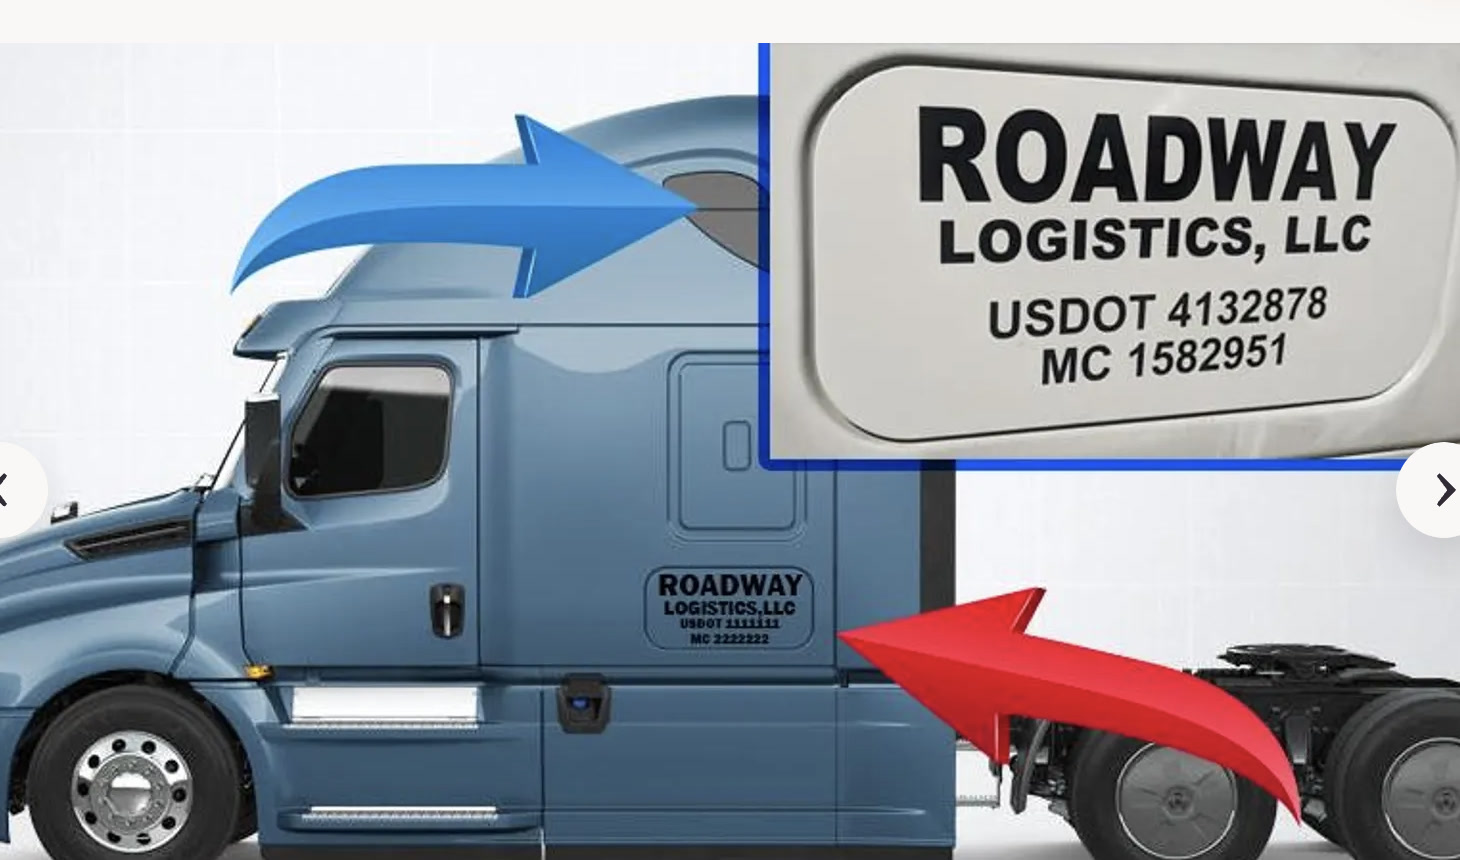
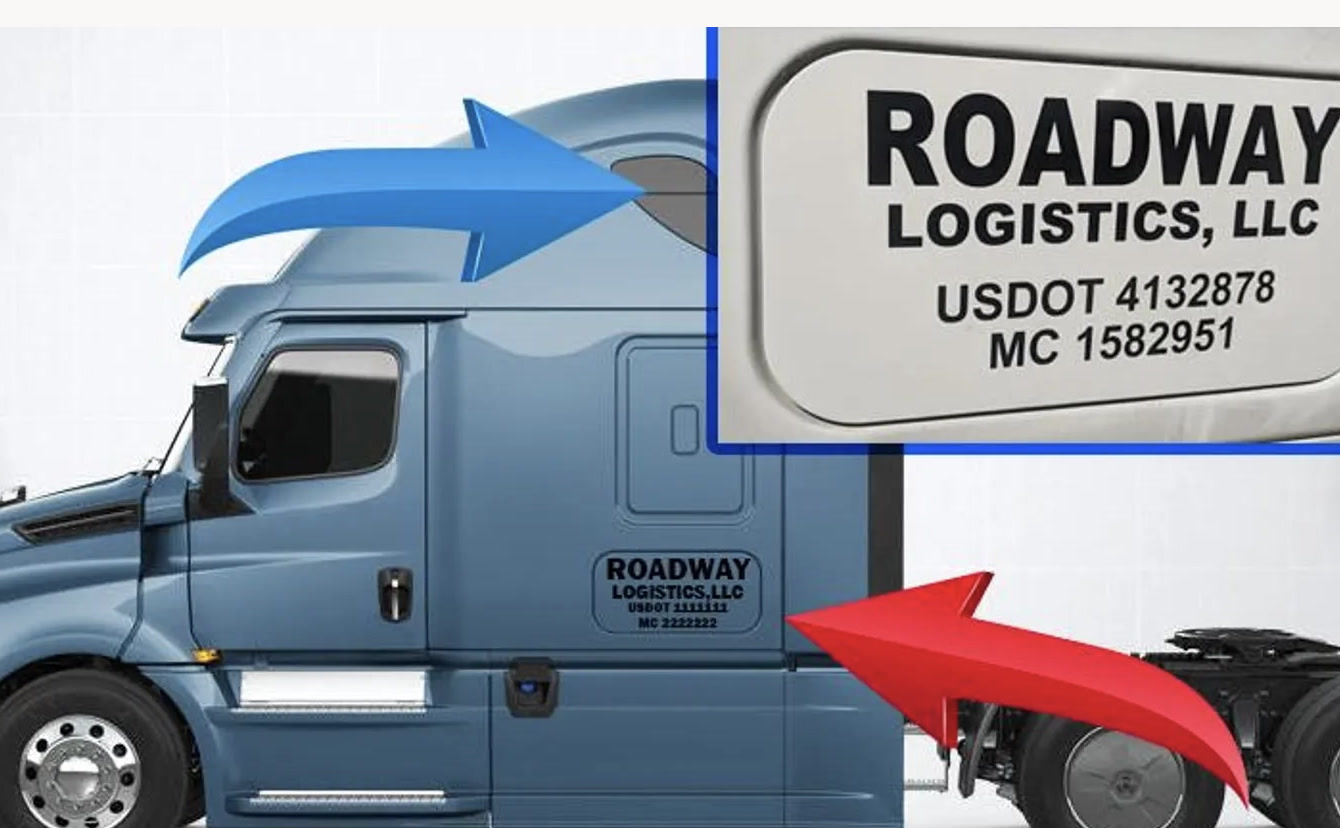
Clean carousel arrows and make the door lettering clickable.
Crop the left/right photo arrows out of the Cascadia template. Click the door or zoom inset to open a larger picture, with all lettering kept inside the rounded square.

diff --git a/src/components/white-semi-truck.tsx b/src/components/white-semi-truck.tsx
@@ -1,13 +1,21 @@
+"use client";
+
+import { useState } from "react";
 import { defaultStyle, type SignPalette } from "@/lib/sign-style";
 import type { SignFields } from "@/lib/order";
 import { cn } from "@/lib/utils";
+import {
+  Dialog,
+  DialogContent,
+  DialogDescription,
+  DialogTitle,
+} from "@/components/ui/dialog";
 
-/** Cropped Roadway-style Cascadia template. */
-const SRC = { w: 1460, h: 860 };
+/** Cropped Roadway-style Cascadia template (carousel arrows removed). */
+const SRC = { w: 1340, h: 828 };
 
-/** Covers the zoomed lettering inset in the template. */
-const INSET = { left: 48.8, top: 0, width: 51.2, height: 56.5 };
-const DOOR = { left: 43.5, top: 63.2, width: 12.2, height: 13.4 };
+const INSET = { left: 46.8, top: 0, width: 53.2, height: 55.8 };
+const DOOR = { left: 43.5, top: 63.7, width: 13.3, height: 13.9 };
 
 export function WhiteSemiTruck({
   fields,
@@ -16,50 +24,79 @@ export function WhiteSemiTruck({
   fields: SignFields;
   className?: string;
 }) {
+  const [open, setOpen] = useState(false);
+
   return (
-    <div
-      className={cn(
-        "overflow-hidden rounded-xl bg-[#eceff2] ring-1 ring-black/10",
-        className,
-      )}
-    >
+    <>
       <div
-        className="relative overflow-hidden"
-        style={{ aspectRatio: `${SRC.w} / ${SRC.h}` }}
+        className={cn(
+          "overflow-hidden rounded-xl bg-[#eceff2] ring-1 ring-black/10",
+          className,
+        )}
       >
-        {/* eslint-disable-next-line @next/next/no-img-element */}
-        <img
-          src="/cascadia-template.jpg"
-          alt="Cascadia sleeper door with USDOT vinyl"
-          className="absolute inset-0 h-full w-full object-cover"
-        />
         <div
-          className="absolute z-10"
-          style={{
-            left: `${DOOR.left}%`,
-            top: `${DOOR.top}%`,
-            width: `${DOOR.width}%`,
-            height: `${DOOR.height}%`,
-          }}
+          className="relative overflow-hidden"
+          style={{ aspectRatio: `${SRC.w} / ${SRC.h}` }}
         >
-          <DoorDecal fields={fields} />
-        </div>
-        <div
-          className="absolute z-10 overflow-hidden bg-white"
-          style={{
-            left: `${INSET.left}%`,
-            top: `${INSET.top}%`,
-            width: `${INSET.width}%`,
-            height: `${INSET.height}%`,
-            border: "7px solid #2f7dff",
-          }}
-        >
-          <div className="h-full w-full p-[3%]">
+          {/* eslint-disable-next-line @next/next/no-img-element */}
+          <img
+            src="/cascadia-template.jpg"
+            alt="Cascadia sleeper door with USDOT vinyl"
+            className="absolute inset-0 h-full w-full object-cover"
+          />
+          <button
+            type="button"
+            onClick={() => setOpen(true)}
+            className="absolute z-10 cursor-zoom-in overflow-hidden p-0 shadow-[0_4px_14px_rgba(20,24,28,0.28)] ring-0"
+            style={{
+              left: `${DOOR.left}%`,
+              top: `${DOOR.top}%`,
+              width: `${DOOR.width}%`,
+              height: `${DOOR.height}%`,
+              borderRadius: "18% / 42%",
+            }}
+            aria-label="Open door lettering"
+          >
             <DoorDecal fields={fields} />
-          </div>
+          </button>
+          <button
+            type="button"
+            onClick={() => setOpen(true)}
+            className="absolute z-10 cursor-zoom-in overflow-hidden bg-white p-0 text-left shadow-md"
+            style={{
+              left: `${INSET.left}%`,
+              top: `${INSET.top}%`,
+              width: `${INSET.width}%`,
+              height: `${INSET.height}%`,
+              border: "6px solid #2f7dff",
+              borderRadius: "4% / 10%",
+            }}
+            aria-label="Open lettering close-up"
+          >
+            <div className="h-full w-full p-[3.2%]">
+              <DoorDecal fields={fields} />
+            </div>
+          </button>
         </div>
       </div>
-    </div>
+
+      <Dialog open={open} onOpenChange={setOpen}>
+        <DialogContent
+          className="max-w-[min(52rem,calc(100%-1.5rem))] overflow-hidden border-0 bg-transparent p-0 shadow-none ring-0 sm:max-w-[min(52rem,calc(100%-2rem))]"
+          showCloseButton
+        >
+          <DialogTitle className="sr-only">Door lettering</DialogTitle>
+          <DialogDescription className="sr-only">
+            Close-up of the sleeper-door vinyl.
+          </DialogDescription>
+          <div className="overflow-hidden rounded-[1.6rem] border-[6px] border-[#2f7dff] bg-white shadow-2xl">
+            <div className="aspect-[2.15/1] w-full p-[2%]">
+              <DoorDecal fields={fields} />
+            </div>
+          </div>
+        </DialogContent>
+      </Dialog>
+    </>
   );
 }
 
@@ -67,7 +104,15 @@ function paletteOf(fields: SignFields): SignPalette {
   return { ...defaultStyle().colors, ...fields.colors };
 }
 
-/** Lettering layout from the Roadway template, filled with this order’s logo. */
+function nameSize(name: string): string {
+  const len = name.length;
+  if (len <= 8) return "min(17cqw, 30cqh)";
+  if (len <= 12) return "min(14cqw, 24cqh)";
+  if (len <= 16) return "min(11.5cqw, 20cqh)";
+  return "min(9.2cqw, 16cqh)";
+}
+
+/** Lettering from the Roadway template, sized to stay inside the rounded square. */
 function DoorDecal({ fields }: { fields: SignFields }) {
   const colors = paletteOf(fields);
   const company = fields.companyName.trim().toUpperCase() || "COMPANY";
@@ -80,9 +125,9 @@ function DoorDecal({ fields }: { fields: SignFields }) {
 
   return (
     <div
-      className="flex h-full w-full flex-col items-center justify-center overflow-hidden px-[6%] py-[8%] text-center"
+      className="flex h-full w-full flex-col items-center justify-center overflow-hidden px-[6%] py-[7%] text-center"
       style={{
-        containerType: "inline-size",
+        containerType: "size",
         backgroundColor: colors.face,
         color: colors.name,
         borderRadius: "18% / 42%",
@@ -93,36 +138,36 @@ function DoorDecal({ fields }: { fields: SignFields }) {
         <img
           src={fields.logoDataUrl}
           alt=""
-          className="mb-[2cqw] max-h-[18cqw] max-w-[36cqw] object-contain"
+          className="mb-[1.5cqh] max-h-[16cqh] max-w-[28cqw] object-contain"
         />
       ) : null}
       <p
         className={cn(
-          "max-w-full font-bold leading-[0.88] tracking-tight",
+          "max-w-full font-bold leading-[0.9] tracking-tight",
           nameFontClass,
         )}
-        style={{ fontSize: company.length > 12 ? "13cqw" : company.length > 8 ? "16cqw" : "19cqw" }}
+        style={{ fontSize: nameSize(company) }}
       >
         {company}
       </p>
       {legal ? (
         <p
-          className="font-sign-condensed mt-[1.6cqw] max-w-full font-semibold leading-none tracking-[0.12em]"
-          style={{ fontSize: "6.4cqw", color: colors.legal }}
+          className="font-sign-condensed mt-[1.4cqh] max-w-full truncate font-semibold leading-none tracking-[0.1em]"
+          style={{ fontSize: "min(5.6cqw, 9cqh)", color: colors.legal }}
         >
           {legal}
         </p>
       ) : null}
       <p
-        className="font-sign-condensed mt-[4.2cqw] font-semibold leading-none"
-        style={{ fontSize: "7.2cqw", color: colors.legal }}
+        className="font-sign-condensed mt-[3.2cqh] max-w-full truncate font-semibold leading-none"
+        style={{ fontSize: "min(6.4cqw, 10cqh)", color: colors.legal }}
       >
         USDOT {dot}
       </p>
       {printMc ? (
         <p
-          className="font-sign-condensed mt-[1.8cqw] font-semibold leading-none"
-          style={{ fontSize: "7.2cqw", color: colors.legal }}
+          className="font-sign-condensed mt-[1.4cqh] max-w-full truncate font-semibold leading-none"
+          style={{ fontSize: "min(6.4cqw, 10cqh)", color: colors.legal }}
         >
           MC {mc}
         </p>

diff --git a/src/components/checkout-desk.tsx b/src/components/checkout-desk.tsx
@@ -150,8 +150,8 @@ export function CheckoutDesk() {
               the sleeper door
             </h2>
             <p className="text-sm text-muted-foreground">
-              Same layout as the sample: lettering on the door, zoomed inset so
-              you can read it.
+              Click the door or the zoom to pull up a larger picture. Lettering
+              stays inside the rounded square.
             </p>
           </div>
           <WhiteSemiTruck fields={item.fields} />
